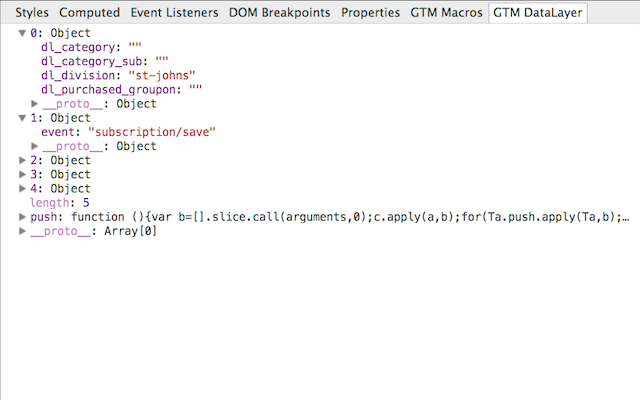
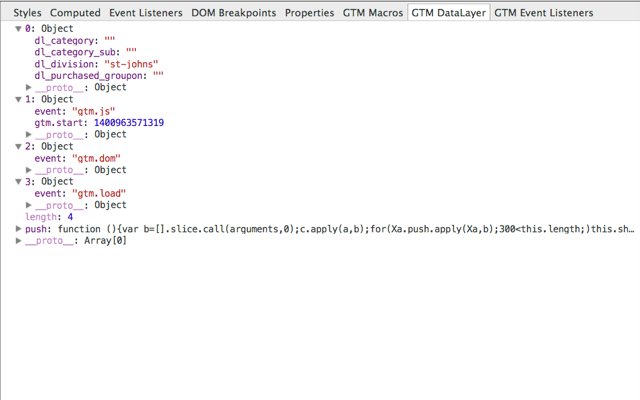
v0.2

Changed region(s): [[0.0, 0.0, 1.0, 0.63]]

diff --git a/src/gtm_panes.js b/src/gtm_panes.js
@@ -1,4 +1,3 @@
-
 var getGoogleTagManagerMacros = function() {
 
   // Check if google_tag_manager object exists
@@ -55,23 +54,32 @@ var getGoogleTagManagerDataLayer = function() {
   }
 };
 
+var getGoogleTagManagerEventListeners = function() {
+
+  // Check if debugDL object exists
+  if (typeof debugDL !== 'undefined') {
+    return debugDL;
+  }
+};
+
 // Pane settings
 var macrosPaneSetting = localStorage.macrosPaneSetting || 'enable';
 var dataLayerPaneSetting = localStorage.dataLayerPaneSetting || 'enable';
+var eventListenersPaneSetting = localStorage.eventListenersPaneSetting || 'enable';
 
 if (macrosPaneSetting === "enable") {
 
   // Create the 'GTM Macros' Sidebar Pane in DevTools
   chrome.devtools.panels.elements.createSidebarPane("GTM Macros",
-      function(sidebar) {
-        function updateMacros() {
-            sidebar.setExpression("(" + getGoogleTagManagerMacros.toString() + ")()");
-        }
+    function(sidebar) {
+      function updateMacros() {
+        sidebar.setExpression("(" + getGoogleTagManagerMacros.toString() + ")()");
+      }
 
-        updateMacros();
-        
-        chrome.devtools.panels.elements.onSelectionChanged.addListener(
-        updateMacros);
+      updateMacros();
+
+      chrome.devtools.panels.elements.onSelectionChanged.addListener(updateMacros);
+      sidebar.onShown.addListener(updateMacros);
   });
 
 }
@@ -80,15 +88,32 @@ if (dataLayerPaneSetting === "enable") {
 
   // Create the 'GTM DataLayer' Sidebar Pane in DevTools
   chrome.devtools.panels.elements.createSidebarPane("GTM DataLayer",
-      function(sidebar) {
-        function updateDataLayer() {
-            sidebar.setExpression("(" + getGoogleTagManagerDataLayer.toString() + ")()");
-        }
+    function(sidebar) {
+      function updateDataLayer() {
+        sidebar.setExpression("(" + getGoogleTagManagerDataLayer.toString() + ")()");
+      }
 
-        updateDataLayer();
+      updateDataLayer();
 
-        chrome.devtools.panels.elements.onSelectionChanged.addListener(
-        updateDataLayer);
+      chrome.devtools.panels.elements.onSelectionChanged.addListener(updateDataLayer);
+      sidebar.onShown.addListener(updateDataLayer);
+  });
+
+}
+
+if (eventListenersPaneSetting === "enable") {
+
+  // Create the 'GTM Event Listeners' Sidebar Pane in DevTools
+  chrome.devtools.panels.elements.createSidebarPane("GTM Event Listeners",
+    function(sidebar) {
+      function updateDebugDL() {
+          sidebar.setExpression("(" + getGoogleTagManagerEventListeners.toString() + ")()");
+      }
+
+      updateDebugDL();
+
+      chrome.devtools.panels.elements.onSelectionChanged.addListener(updateDebugDL);
+      sidebar.onShown.addListener(updateDebugDL);
   });
 
 }

diff --git a/src/options.js b/src/options.js
@@ -2,8 +2,10 @@
 function loadOptions() {
   var macrosPaneSetting = localStorage.macrosPaneSetting;
   var dataLayerPaneSetting = localStorage.dataLayerPaneSetting;
+  var eventListenersPaneSetting = localStorage.eventListenersPaneSetting;
   var select_macros_pane_values = document.getElementById("macros_pane_values");
   var select_datalayer_pane_values = document.getElementById("datalayer_pane_values");
+  var select_event_listeners_pane_values = document.getElementById("event_listeners_pane_values");
   var i = 0;
 
 
@@ -23,14 +25,24 @@ function loadOptions() {
     }
   }
 
+  for (; i < select_event_listeners_pane_values.children.length; i++) {
+    var child_event_listeners_pane_values = select_event_listeners_pane_values.children[i];
+      if (child_event_listeners_pane_values.value === eventListenersPaneSetting) {
+        child_event_listeners_pane_values.selected = "true";
+        break;
+    }
+  }
+
 }
 
 // Save settings
 function saveOptions() {
   var select_macros_pane_values = document.getElementById("macros_pane_values");
   var select_datalayer_pane_values = document.getElementById("datalayer_pane_values");
+  var select_event_listeners_pane_values = document.getElementById("event_listeners_pane_values");
   localStorage.macrosPaneSetting = select_macros_pane_values.children[select_macros_pane_values.selectedIndex].value;
   localStorage.dataLayerPaneSetting = select_datalayer_pane_values.children[select_datalayer_pane_values.selectedIndex].value;
+  localStorage.eventListenersPaneSetting = select_event_listeners_pane_values.children[select_event_listeners_pane_values.selectedIndex].value;
 
   // Update status to let user know options were saved.
   var status = document.getElementById("status");
@@ -44,6 +56,7 @@ function saveOptions() {
 function restoreOptions() {
   localStorage.macrosPaneSetting = "disable";
   localStorage.dataLayerPaneSetting = "disable";
+  localStorage.eventListenersPaneSetting = "disable";
   location.reload();
 }
 

diff --git a/src/options.html b/src/options.html
@@ -12,16 +12,15 @@
   <h3>Show panes</h3>
   <div class="properties">
     <p>
-        <label>Macros pane:</label>
-        <select id="macros_pane_values">
-          <option value="enable">Enable</option>
-          <option value="disable">Disable</option>
-        </select>
-      </p>
-      <small>Displays a sidebar pane in Developer Tools with an overview of all available macros inside the google_tag_manager object.
+      <label>Macros pane:</label>
+      <select id="macros_pane_values">
+        <option value="enable">Enable</option>
+        <option value="disable">Disable</option>
+      </select>
+    </p>
+    <small>Displays a sidebar pane in Developer Tools with an overview of all available macros inside the google_tag_manager object.
 </small>
-
-      <p>
+    <p>
       <label>DataLayer pane:</label>
       <select id="datalayer_pane_values">
         <option value="enable">Enable</option>
@@ -29,6 +28,14 @@
       </select>
     </p>
     <small>Displays a sidebar pane in Developer Tools which contains the content of the Google Tag Manager dataLayer (when available inside the DOM).</small>
+    <p>
+      <label>Event Listeners pane:</label>
+      <select id="event_listeners_pane_values">
+        <option value="enable">Enable</option>
+        <option value="disable">Disable</option>
+      </select>
+    </p>
+    <small>Displays a sidebar pane in Developer Tools which contains registered GTM click events. To use this pane you have to install and use the <a href="http://www.simoahava.com/analytics/debugging-auto-event-tracking-gtm/" target="_blank">GTM Auto-Event Listener Debugger</a> Chrome extension by Simo Ahava.</small>
   </div>
   <p class="actions">
     <button class="save">Save</button>

diff --git a/src/gtm_panes.html b/src/gtm_panes.html
@@ -1,5 +1,5 @@
 <html>
   <body>
     <script src="gtm_panes.js"></script>
-</body>
+  </body>
 </html>

diff --git a/README.md b/README.md
@@ -2,31 +2,39 @@
 Google Chrome extension which displays Google Tag Manager sidebar panes in Chrome Developer Tools.
 
 ![GTM DevTools Sidebar Panes
-Google Chrome extension which](images/tile-220-140.png)
+Google Chrome extension which](images/tile-728-280.png)
 
 ## Usage
-This extension will add two sidebar panes to the elements panel of Chrome Developer Tools. You can use this extension to debug or check the macros inside the Google Tag Manager object of the current page.
+This extension will add sidebar panes to the elements panel of Chrome Developer Tools.
 
-The GTM Macros pane shows all available macros including the latest event tracking data when available:
+You can use this extension to debug or check the macros inside the Google Tag Manager object of the current page. The GTM Macros pane shows all available macros including the latest event tracking data when available:
 
 ![GTM Macros pane](images/gtm-macros-pane.png)
 
-The GTM Datalayer pane gives easy access to the objects inside the dataLayer:
+The GTM Datalayer pane gives easy access to the objects inside the dataLayer (when available inside the DOM):
 
 ![GTM Datalayer pane](images/gtm-datalayer-pane.png)
 
-Both panes will be updated by clicking DOM elements inside the elements panel.
+The GTM Event Listeners pane gives easy access to registered GTM click events inside the debugDL object. To use this pane you have to install and use the [GTM Auto-Event Listener Debugger Chrome extension][5] by Simo Ahava.
+
+![GTM Event Listeners pane](images/gtm-event-listeners-pane.png)
+
+Panes will be updated by clicking DOM elements inside the elements panel or by switching between sidebar panes.
 
 ## Install
-Download and install this extension from the [Chrome Web Store][1]
+Download and install this extension from the [Chrome Web Store][1].
 
 ## Issues
 Have a bug? Please create an [issue][2] here on GitHub!
 
 ## Contributing
-Want to contribute? Great! Just fork the project, make your changes and open a [pull request][3]
+Want to contribute? Great! Just fork the project, make your changes and open a [pull request][3].
 
 ## Changelog
+### 0.2 (May 26, 2014):
+ * Added GTM Event Listeners pane.
+ * Panes will also be updated by switching between sidebar panes.
+
 ### 0.1 (May 12, 2014):
  * Initial release.
 
@@ -57,3 +65,4 @@ THE SOFTWARE.
 [2]: https://github.com/sanderheilbron/gtm-devtools-sidebar-panes/issues
 [3]: https://github.com/sanderheilbron/gtm-devtools-sidebar-panes/pulls
 [4]: http://www.sanderheilbron.nl
+[5]: https://chrome.google.com/webstore/detail/gtm-auto-event-listener-d/iiihoahkpncaheicjfemhjkkfamcahcd
